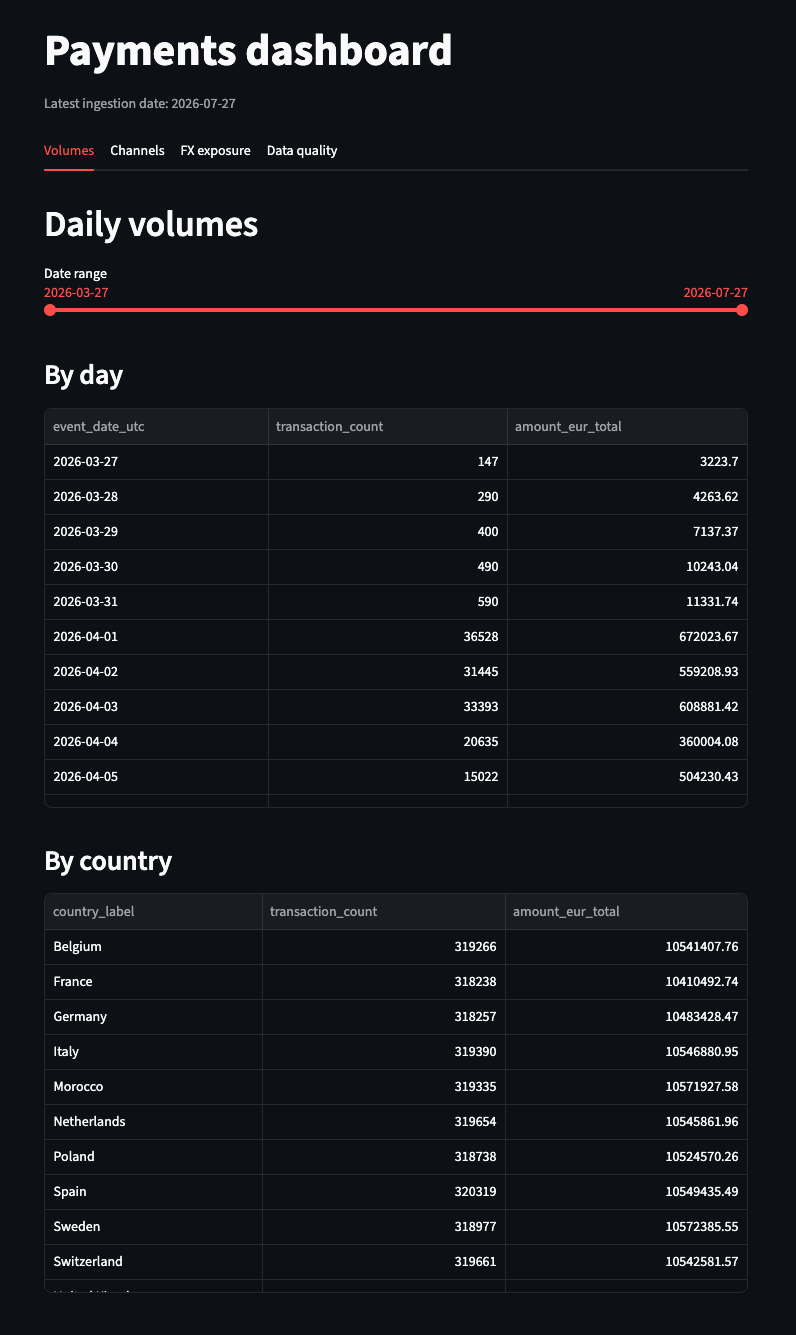
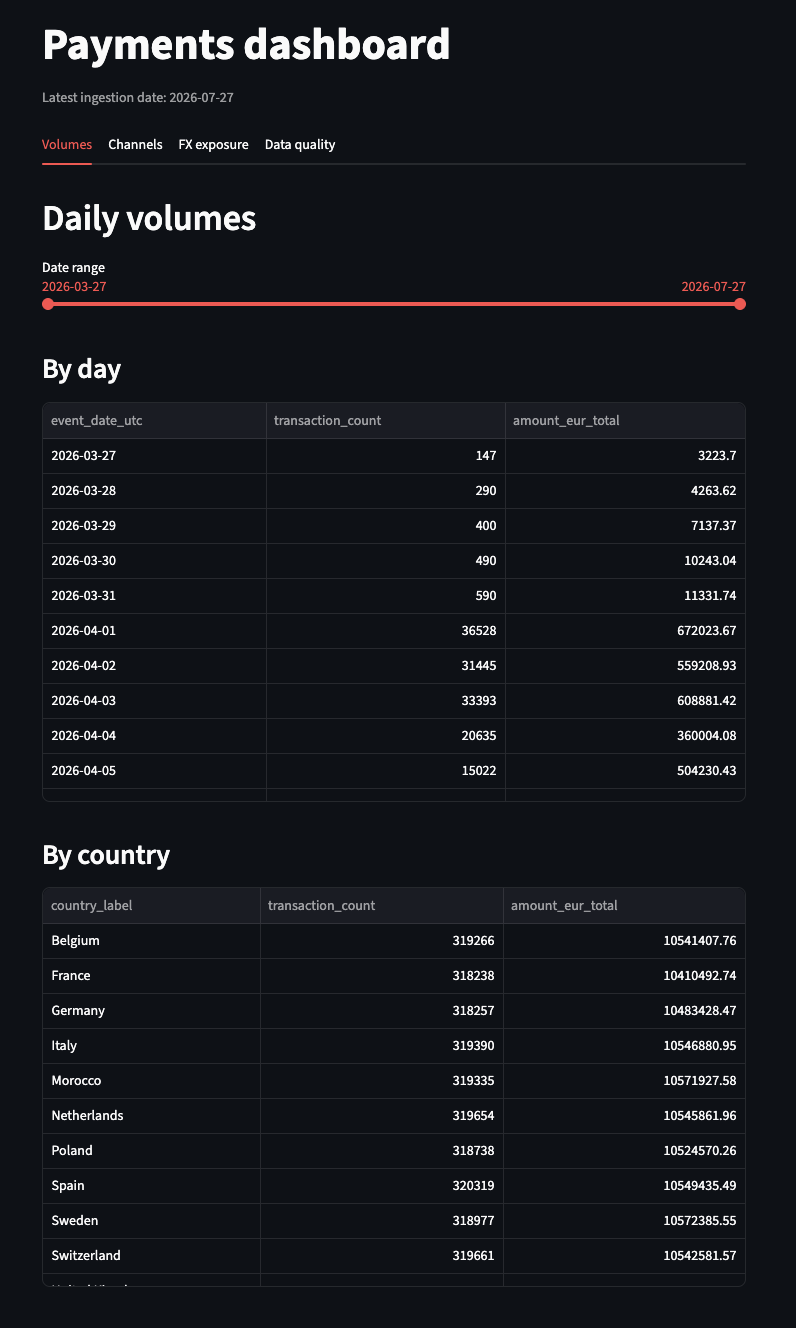
rewrite the readme and refresh the dashboard captures

diff --git a/README.md b/README.md
@@ -2,59 +2,134 @@
 
 [![ci](https://github.com/medanouarzaki/payments-batch-platform/actions/workflows/ci.yml/badge.svg)](https://github.com/medanouarzaki/payments-batch-platform/actions/workflows/ci.yml)
 
-Daily extracts from a payment system arrive late, duplicated, and inconsistently
-typed.
+A daily batch pipeline that turns messy payment extracts into aggregates you can trust,
+and says plainly where that trust ends.
+
+**[See the dashboard running →](https://payments-batch-platform.streamlit.app)** — no
+install required. It sleeps after twelve hours without visitors; if you land on a
+sleeping page, one click wakes it.
+
+## The problem
+
+A payment system drops one file per day. The rows in it arrive late, arrive twice, and
+carry amounts formatted three different ways in currencies that are not all the same.
+Anyone who wants to answer "how much did we process yesterday, in euros" has to solve
+late arrivals, duplicates, parsing, and currency conversion first — and get the same
+answer twice if they ask twice.
+
+This repository does that, for 118 days of transactions, and keeps a record of every row
+it refused and why.
+
+![Daily volumes](docs/dashboard-overview.png)
+
+## What it does
+
+- **Lands** each day once, atomically, as Hive-partitioned Parquet. Never rewrites a day.
+- **Validates** every row, and quarantines the invalid ones with their reasons rather
+  than dropping them.
+- **Deduplicates** deterministically inside a bounded window: same input, same winner.
+- **Converts** to euros against published daily rates, recording per row which rate was
+  used, how old it was, and why no conversion happened when none did.
+- **Refuses to publish** a day whose quarantine share crosses a threshold.
+- **Publishes** six tables to a serving file, replaced atomically, so a reader never
+  competes with the writer for the database.
 
 ## Architecture
 
-## Running it
-
-The local stack is Airflow (local executor) plus Postgres for its metadata
-database, run through Docker Compose; dbt runs against a DuckDB warehouse
-file on the host, mounted into the containers.
-
-On a fresh checkout, generate the local secrets Compose needs (a Postgres
-password, an Airflow Fernet key, and an admin user) once:
-
-```
-make init-env
+```mermaid
+flowchart LR
+  GEN["daily batch"] --> RAW["Parquet<br/>partitioned by ingestion date"]
+  FX["exchange rates"] --> WH
+  RAW --> WH["DuckDB warehouse<br/>staging → intermediate → marts"]
+  WH --> SRV["serving file<br/>replaced atomically"]
+  SRV --> DASH["Streamlit dashboard"]
+  SRV --> SNAP["CSV snapshot<br/>committed to this repo"]
+  SNAP --> PUB["public dashboard"]
 ```
 
-Then start the stack:
+Python and Parquet for ingestion, DuckDB as the warehouse, dbt for the transformations,
+Airflow in Docker Compose for orchestration, Streamlit for the dashboard. Everything runs
+on one machine; the only external dependency is a public exchange rate API.
+
+`docs/architecture.md` has the full picture: every model, every edge, and what runs where.
+
+## The numbers
+
+| | |
+|---|---|
+| Ingestion dates | 118, from 2026-04-01 to 2026-07-27 |
+| Rows received | 3,588,450 |
+| Rows in the fact table | 3,526,366 |
+| Rows quarantined as invalid | 34,105 |
+| Duplicates removed | 27,979 |
+| Rows that arrived after their event date | 70,677 |
+| dbt models | 9 |
+| dbt tests | 78 |
+| Python tests | 187, plus 17 for the dashboard |
+| Coverage of the pipeline package | 95.4%, with a blocking floor at 90% |
+| Decision records | 17 |
+
+Every count in the first six rows can be recomputed from this repository alone, without
+running anything: `dashboard/snapshot/` holds a committed CSV copy of the published
+tables. `docs/quality.md` explains how, and states what is *not* guaranteed.
+
+## Run it
+
+Requires Python 3.11 and [uv](https://docs.astral.sh/uv/). Timings measured on a clean
+clone with an empty package cache.
 
 ```
-make up
+make install        # 12 s, downloads 763 MB
+make test           # 4 min 39 s, 187 tests
+make nightly        # 9 s, generates and processes one day end to end
 ```
 
-This builds the Airflow image, migrates its metadata database, and starts
-the scheduler and webserver. The webserver is reachable at
-`http://localhost:8080` once its health check passes; sign in with the
-admin user created by `make init-env`. The `payments_daily` DAG is created
-paused, so nothing runs until it is explicitly unpaused or backfilled.
+`make nightly` replays the nine steps of the daily pipeline outside any scheduler. On a
+fresh checkout there is no warehouse yet, so it says so and treats the run as day one.
 
-To run or replay a range of days without unpausing the DAG, use the
-backfill target:
+To see the result:
 
 ```
-make backfill FROM=2026-04-01 TO=2026-04-30
+make dashboard-install   # 11 s
+make dashboard           # http://localhost:8501
 ```
 
-`FROM` and `TO` are required and inclusive. Add `DRY_RUN=1` to preview the
-run without executing it, or `RESET=1` to clear and rerun days that already
-have a DagRun in the given range — only pass `RESET=1` for the exact range
-you mean to redo, since it resets every day in that range, not just a
-failed one.
+For the orchestrated version, the replay commands, and what to do when something breaks,
+see `docs/operations.md`.
 
-Stop the stack with:
+## Decisions
+
+Seventeen decision records live in `docs/decisions/`, each with the alternatives that
+were rejected and why. The ones that shaped the rest:
+
+- [DuckDB as the warehouse](docs/decisions/0001-use-duckdb-as-the-analytical-warehouse.md)
+  — one file, no server, and the reason that choice constrains everything downstream.
+- [Quarantine invalid rows instead of dropping them](docs/decisions/0005-quarantine-invalid-rows-instead-of-dropping-them.md)
+  — why a rejected row still has to be counted.
+- [Deterministic deduplication with a bounded window](docs/decisions/0006-deterministic-deduplication-with-a-bounded-window.md)
+  — what the window buys, and what it silently excludes.
+- [A separate serving layer](docs/decisions/0010-separate-the-serving-layer-into-its-own-file-and-environment.md)
+  — measured from a lock error, not assumed.
+
+## What is in here
 
 ```
-make down
+src/payments/     ingestion, generator, rate client, publication
+dbt/              9 models, 2 seeds, 78 tests, 5 macros
+airflow/          the daily DAG and its four scripts
+dashboard/        four views, a local entry point and a public one
+docs/             architecture, data model, quality, operations, decisions
+.github/          six CI jobs, plus a nightly run of the whole chain
 ```
 
-This also removes the Postgres volume, so Airflow's run history does not
-survive it; the DuckDB warehouse and landed partitions live under `data/`
-on the host and are unaffected.
+![Data quality](docs/dashboard-quality.png)
 
-## Design decisions
+## What this is not
 
-## What broke
+A production system. The warehouse is a single file on one machine with no replication
+and no backup; there is no alerting, only exit codes; secrets sit in a local file rather
+than a secret manager; and the rate source has no fallback. The data is synthetic, from a
+seeded generator with deliberately injected defects — realistic in shape, not in origin.
+
+The last section of `docs/operations.md` lists what would have to change, in the order it
+would matter.
